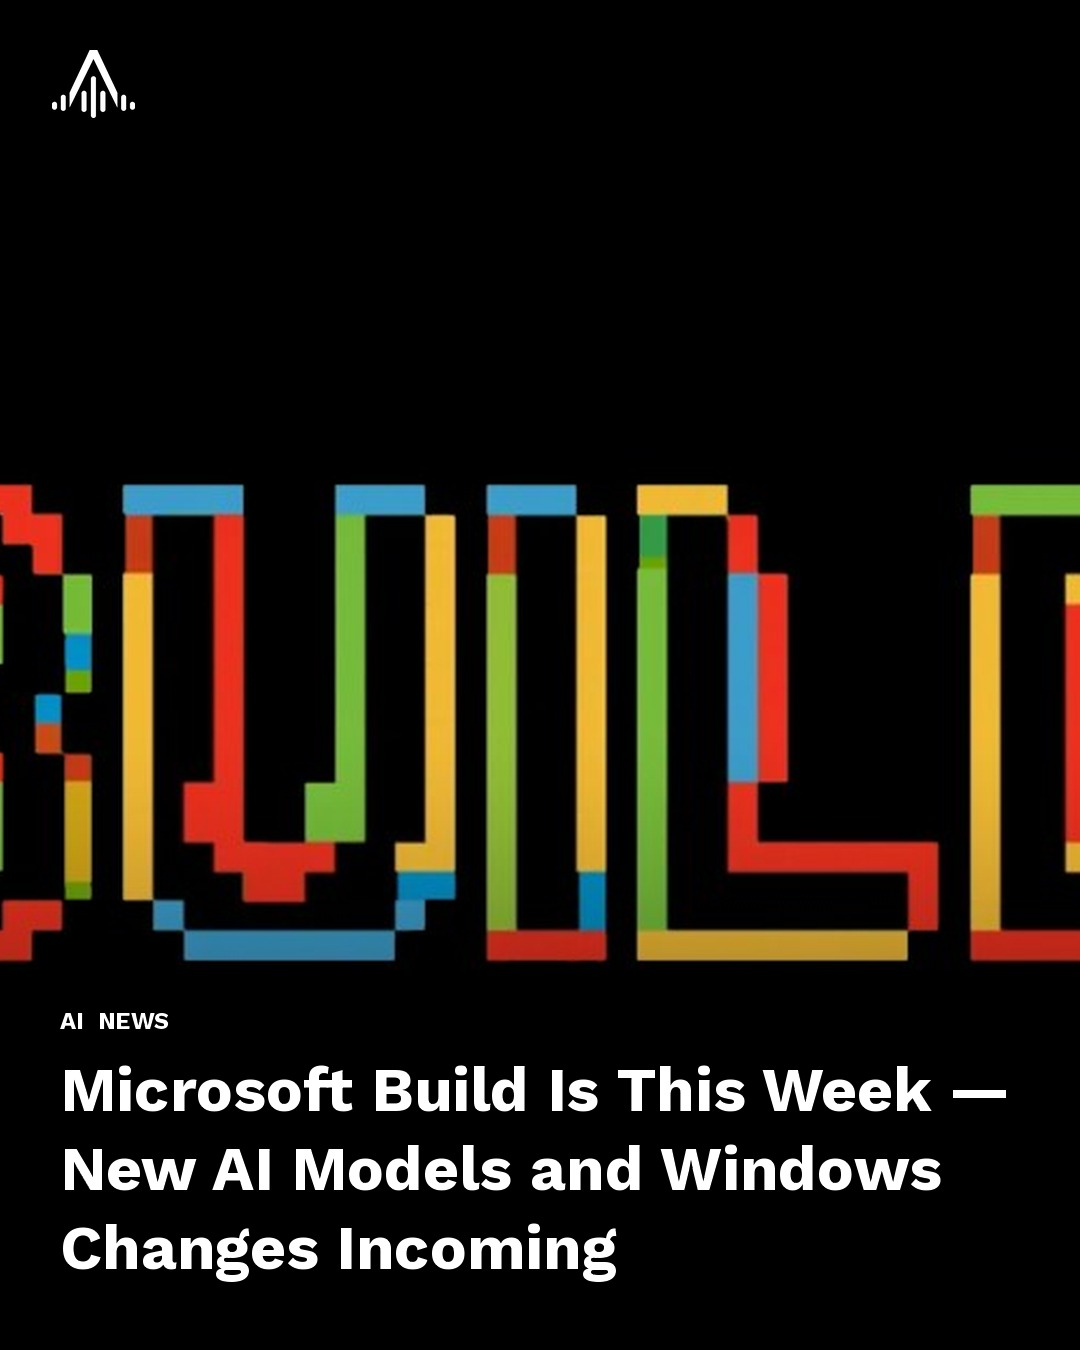
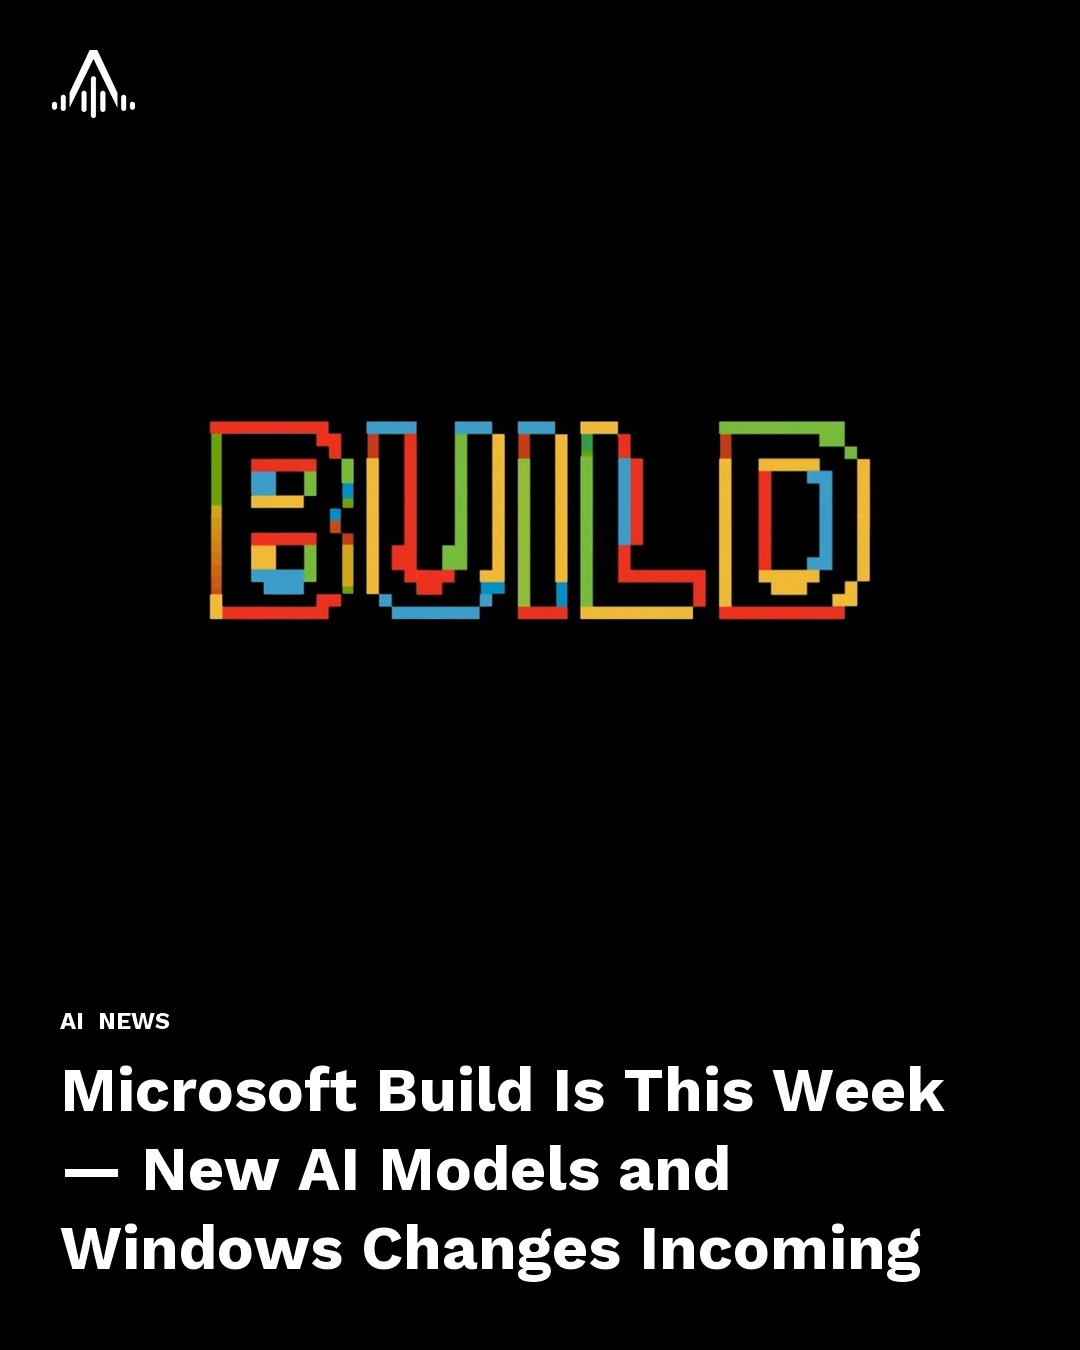
Add --fit-width flag to swap_cover; fix Microsoft Build cover

Changed region(s): [[0.0, 0.3111, 1.0, 0.7156], [0.0611, 0.7778, 0.9167, 0.9644], [0.0, 0.56, 0.0306, 0.6222]]

diff --git a/scripts/instagram/swap_cover.py b/scripts/instagram/swap_cover.py
@@ -46,6 +46,10 @@ def main() -> None:
         "--focus", metavar="X,Y",
         help="Manual crop center as percentages 0-100. Y defaults to 40 if omitted.",
     )
+    parser.add_argument(
+        "--fit-width", action="store_true",
+        help="Force fit-width mode (shows full image with letterbox bars).",
+    )
     args = parser.parse_args()
 
     date_folder, article_folder, source_arg = args.date_folder, args.article_folder, args.source
@@ -101,7 +105,7 @@ def main() -> None:
     title = _title_from_caption(article_dir / "caption.md", article_folder)
     photo = Image.open(hero_path).convert("RGB")
     cover_path = article_dir / "cover.jpg"
-    logo_color, img_mode = generate_cover(photo, title, cover_path, focus=focus)
+    logo_color, img_mode = generate_cover(photo, title, cover_path, focus=focus, fit_width=args.fit_width)
     print(f"✓ Regenerated cover.jpg ({img_mode}, {logo_color} logo)")
     print(f"  Headline used: {title}")
 

diff --git a/scripts/instagram/image_utils.py b/scripts/instagram/image_utils.py
@@ -340,16 +340,18 @@ def _add_text_overlay(canvas: Image.Image, headline: str) -> Image.Image:
 def generate_cover(
     photo: Image.Image, headline: str, out_path: Path,
     focus: Optional[Tuple[int, int]] = None,
+    fit_width: bool = False,
 ) -> Tuple[str, str]:
     """
     Build 1080×1350 Instagram cover and save as JPEG.
     Returns (logo_color, image_mode).
     """
     pw, ph = photo.size
-    if pw / ph > 2.0:
+    if fit_width or pw / ph > 2.0:
         bg = _make_bg_fitwidth(photo, y_bias=0.28)
         image_mode = "fit-width"
-        print(f"    ultra-wide source — fit-width mode")
+        reason = "forced fit-width mode" if fit_width else "ultra-wide source — fit-width mode"
+        print(f"    {reason}")
     else:
         bg, crop_desc = _make_bg_cover(photo, y_bias=0.45, focus=focus)
         image_mode = "cover-crop"
